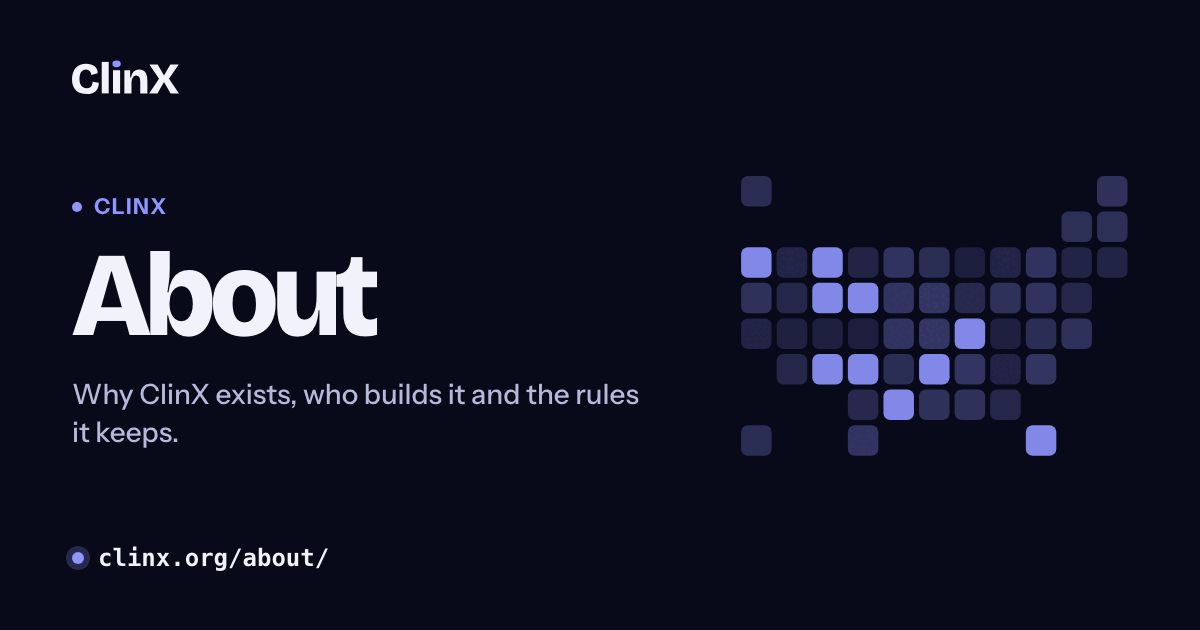
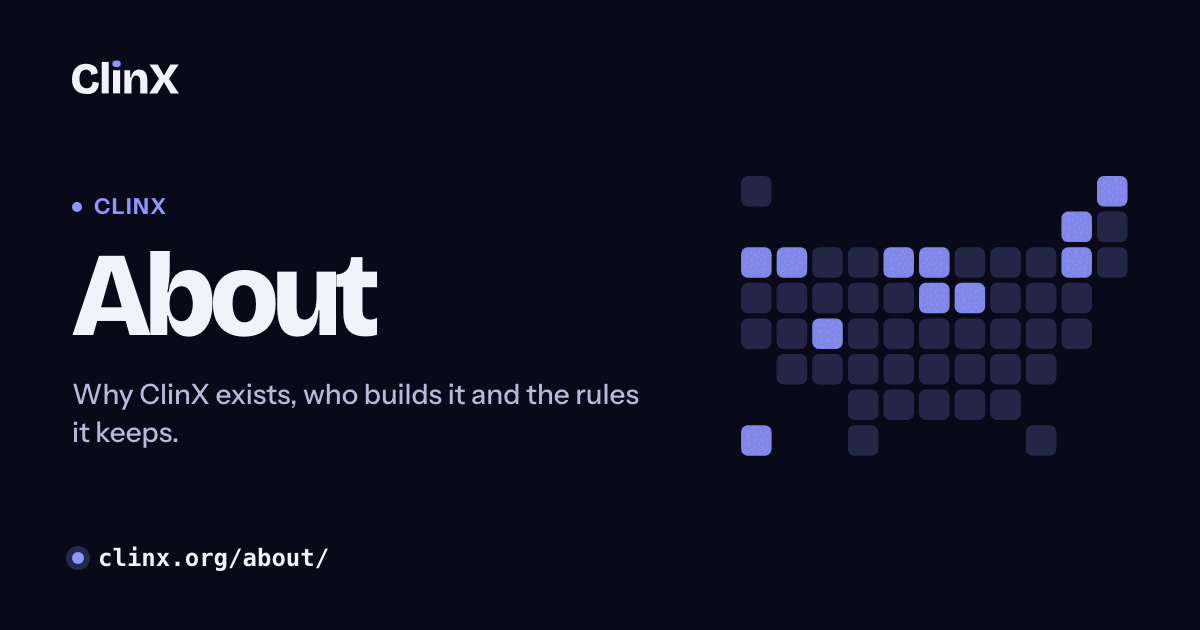
Share cards light the states with a reporting law; Indiana, Colorado and Illinois wording from the pages read on 16 November
The bright tiles on every card are now the states the Scorecard lists, and a
test compares the list with the registry. Indiana: the department's page says
Coming soon and holds no file. Colorado: what hospitals send and to whom, with
the department's page as a source. Illinois: when the first reports can be
expected.

diff --git a/src/lib/states.ts b/src/lib/states.ts
@@ -143,9 +143,12 @@ export const STATE_REGISTRY: Readonly<Record<string, StateEntry>> = {
     status: 'law',
     group: 'not-posted-yet',
     visibility: 'unconfirmed',
-    publicNow: 'Nothing is known to be public. Whether the figures are published for each hospital has not been confirmed.',
-    stands: 'Hospitals add 340B figures to the yearly report they send the state, under a law passed in 2025. Whether the figures are published for each hospital is not yet confirmed.',
-    sources: [{ label: 'Senate Bill 25-071', href: 'https://content.leg.colorado.gov/sites/default/files/2025a_071_signed.pdf' }],
+    publicNow: 'No 340B figure is known to be public. The first figures were due to the state on July 1, 2026, for fiscal year 2024. Whether the state will print them for each hospital has not been confirmed.',
+    stands: "Hospitals add 340B figures to the community benefit report they send the Department of Health Care Policy and Financing each year, under a law passed in 2025. The figures are the hospital's 340B costs at market rates, its 340B purchase costs, its savings, and a description of how the savings are used. The department publishes a report on community benefit each year. Whether that report will show the 340B figures for each hospital is not yet confirmed.",
+    sources: [
+      { label: 'Senate Bill 25-071', href: 'https://content.leg.colorado.gov/sites/default/files/2025a_071_signed.pdf' },
+      { label: "The department's page", href: 'https://hcpf.colorado.gov/hospital-community-benefit-accountability' },
+    ],
   },
   HI: {
     status: 'law',
@@ -173,7 +176,7 @@ export const STATE_REGISTRY: Readonly<Record<string, StateEntry>> = {
     status: 'law',
     group: 'not-posted-yet',
     visibility: 'none',
-    publicNow: 'Nothing is public yet.',
+    publicNow: 'Nothing is public yet. The first reports to the General Assembly can be expected by August 1, 2027.',
     stands:
       'Covered entities report to the General Assembly "On or before August 1, 2026 and each August 1 thereafter", under Section 20 of the act. The act was signed on August 7, 2026, after that first date, so the first reports can be expected by August 1, 2027. That is a reading of the dates; the act does not say it. Hospitals with fewer than 100 beds, critical access hospitals, safety-net hospitals and grantees start in 2029. Section 25 adds a report on 340B in Medicaid, which the Medicaid department makes by January 1, 2028.',
     sources: [{ label: 'Public Act 104-0758', href: 'https://www.ilga.gov/Legislation/PublicActs/View/104-0758' }],
@@ -182,8 +185,8 @@ export const STATE_REGISTRY: Readonly<Record<string, StateEntry>> = {
     status: 'law',
     group: 'state-totals',
     visibility: 'planned',
-    publicNow: 'Nothing is shown here yet. The law calls for one report of the figures added together, and this page does not say that one has been posted.',
-    stands: 'Reports are due to the Department of Health by April 1 each year. The law has the department publish a yearly report of the figures added together.',
+    publicNow: 'Nothing yet. On the Department of Health\'s page, the part for these reports says "Coming soon!" and holds no file. It was read on November 16, 2026.',
+    stands: 'Reports are due to the Department of Health by April 1 each year. The law has the department publish a yearly report of the figures added together. None has been posted so far.',
     sources: [
       { label: 'IC 16-40-6 (Senate Bill 118, 2025)', href: 'https://iga.in.gov/pdf-documents/124/2025/senate/bills/SB0118/SB0118.05.ENRH.pdf' },
       { label: "The department's page", href: 'https://www.in.gov/health/cshcr/reports-on-healthcare-facilities/' },

diff --git a/scripts/brand/share-cards.html b/scripts/brand/share-cards.html
@@ -5,8 +5,8 @@
   scripts/brand/make-share-cards.mjs opens this file once for each card, passes the card in as
   window.CARD and saves a picture; you do not open this file by hand.
   The name at the top is the drawn wordmark (public/brand/clinx-wordmark-on-dark.svg, from build.mjs).
-  The tile pattern is decoration: the grid is the site's state map with no letters, and which tiles
-  are bright stands for nothing. It is chosen from the card's name only so each card differs a little.
+  The tile pattern is the site's state map with no letters. The bright tiles are the states with a
+  340B reporting law, listed as "bright" in share-cards.json, and they are the same on every card.
   The look follows the home page in its dark setting: the same night colour, the same two typefaces,
   white words with the lilac accent.
 -->
@@ -46,16 +46,11 @@ svg { position: absolute; right: 64px; top: 50%; translate: 0 -50%; width: 400px
 <svg id="tiles" viewBox="0 0 472 340" aria-hidden="true"></svg>
 <script>
 const card = window.CARD;
-const GRID = [[10,0],[0,0],[9,1],[10,1],[0,2],[1,2],[2,2],[3,2],[4,2],[5,2],[6,2],[7,2],[8,2],[9,2],[10,2],[0,3],[1,3],[2,3],[3,3],[4,3],[5,3],[6,3],[7,3],[8,3],[9,3],[0,4],[1,4],[2,4],[3,4],[4,4],[5,4],[6,4],[7,4],[8,4],[9,4],[1,5],[2,5],[3,5],[4,5],[5,5],[6,5],[7,5],[8,5],[3,6],[4,6],[5,6],[6,6],[7,6],[0,7],[3,7],[8,7]];
-let seed = 7;
-for (const ch of card.id) seed = (seed * 31 + ch.charCodeAt(0)) >>> 0;
-const next = () => { seed = (seed * 1664525 + 1013904223) >>> 0; return seed / 4294967296; };
+const GRID = [["AK",0,0],["ME",10,0],["VT",9,1],["NH",10,1],["WA",0,2],["ID",1,2],["MT",2,2],["ND",3,2],["MN",4,2],["IL",5,2],["WI",6,2],["MI",7,2],["NY",8,2],["RI",9,2],["MA",10,2],["OR",0,3],["NV",1,3],["WY",2,3],["SD",3,3],["IA",4,3],["IN",5,3],["OH",6,3],["PA",7,3],["NJ",8,3],["CT",9,3],["CA",0,4],["UT",1,4],["CO",2,4],["NE",3,4],["MO",4,4],["KY",5,4],["WV",6,4],["VA",7,4],["MD",8,4],["DE",9,4],["AZ",1,5],["NM",2,5],["KS",3,5],["AR",4,5],["TN",5,5],["NC",6,5],["SC",7,5],["DC",8,5],["OK",3,6],["LA",4,6],["MS",5,6],["AL",6,6],["GA",7,6],["HI",0,7],["TX",3,7],["FL",8,7]];
+const bright = new Set(card.bright);
 const step = 42;
-document.getElementById('tiles').innerHTML = GRID.map(([c, r]) => {
-  const bright = next() > 0.8;
-  const opacity = bright ? 0.9 : 0.14 + next() * 0.2;
-  return `<rect x="${6 + c * step}" y="${6 + r * step}" width="36" height="36" rx="8" fill-opacity="${opacity.toFixed(2)}"/>`;
-}).join('');
+document.getElementById('tiles').innerHTML = GRID.map(([code, c, r]) =>
+  `<rect x="${6 + c * step}" y="${6 + r * step}" width="36" height="36" rx="8" fill-opacity="${bright.has(code) ? 0.92 : 0.2}"/>`).join('');
 const title = document.getElementById('title');
 if (card.accent && card.title.endsWith(card.accent)) {
   title.append(card.title.slice(0, -card.accent.length));

diff --git a/tests/share-cards.test.ts b/tests/share-cards.test.ts
@@ -1,6 +1,7 @@
 import { describe, expect, it } from 'vitest';
 import list from '../scripts/brand/share-cards.json';
 import { SHARE_CARDS, shareCard, shareCardFor } from '../src/lib/share-cards';
+import { STATE_REGISTRY } from '../src/lib/states';
 
 // The pictures are read as they are kept in the repository, as base64 text, and turned back into bytes.
 const pictures = import.meta.glob('../public/brand/**/*.png', { query: '?inline', import: 'default', eager: true }) as Record<string, string>;
@@ -48,6 +49,11 @@ describe('share cards', () => {
     expect(shareCardFor('/privacy/').id).toBe('home');
     expect(shareCardFor('/404.html').id).toBe('home');
     expect(() => shareCard('nowhere')).toThrow();
+  });
+
+  it('lights the states with a reporting law, the same ones the Scorecard lists', () => {
+    // If this fails a state was added to or taken off the registry: change "bright" in share-cards.json and draw the cards again.
+    expect([...list.bright].sort()).toEqual(Object.keys(STATE_REGISTRY).sort());
   });
 
   it('puts no count in a card, since a count goes out of date', () => {
